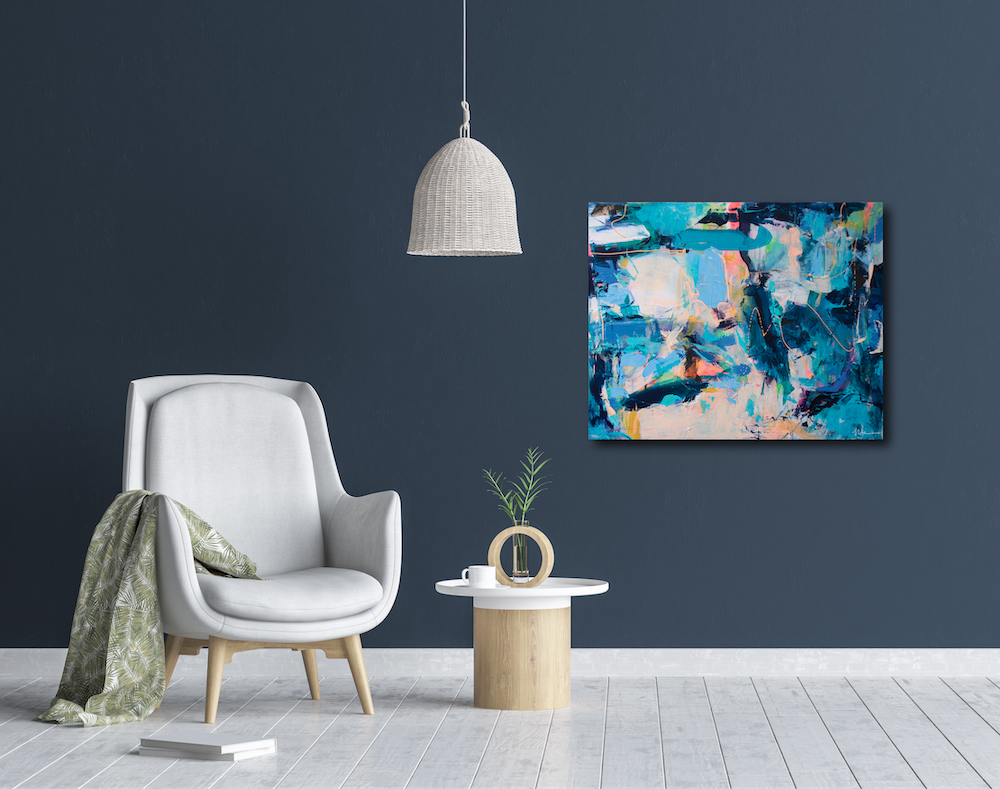
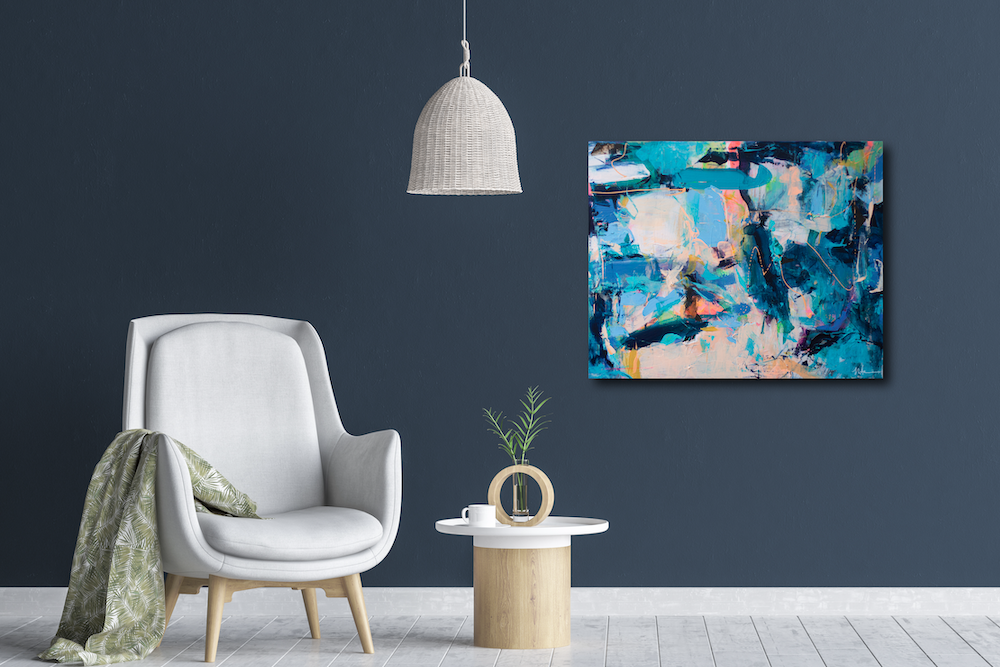
added wintry creations

diff --git a/_site/painting-collections/2022-1-jan-paintings/index.html b/_site/painting-collections/2022-1-jan-paintings/index.html
@@ -20,19 +20,19 @@
 
 	<!-- Page Info -->
 	<link rel="shortcut icon" href="/website/images/favicon.png">
-	<title>The Fresh Start Collection – Montana Fowler Art</title>
+	<title>Wintry Creations – Montana Fowler Art</title>
 	<meta name="description" content="">
 
 	<!-- Twitter Card -->
 	<meta name="twitter:card" content="summary_large_image">
-	<meta name="twitter:title" content="The Fresh Start Collection – Montana Fowler Art">
+	<meta name="twitter:title" content="Wintry Creations – Montana Fowler Art">
 	<meta name="twitter:description" content="">
-	<meta name="twitter:image:src" content="http://localhost:4000/website/images/2021/december-shop/loud/loud-1.jpg">
+	<meta name="twitter:image:src" content="http://localhost:4000/website/images/2022/January/minty/minty-1.jpg">
 
 	<!-- Facebook OpenGraph -->
-	<meta property="og:title" content="The Fresh Start Collection – Montana Fowler Art" />
+	<meta property="og:title" content="Wintry Creations – Montana Fowler Art" />
 	<meta property="og:description" content="" />
-	<meta property="og:image" content="http://localhost:4000/website/images/2021/december-shop/loud/loud-1.jpg" />
+	<meta property="og:image" content="http://localhost:4000/website/images/2022/January/minty/minty-1.jpg" />
 
 	
 	<!-- Font Embed Code -->
@@ -103,6 +103,10 @@
 					</li>
 					
 					<li class="menu__list__item">
+						<a href="/website/shop" class="menu__list__item__link">shop</a>
+					</li>
+					
+					<li class="menu__list__item">
 						<a href="/website/about" class="menu__list__item__link">about</a>
 					</li>
 					
@@ -126,14 +130,14 @@
 	
 	<div class="page">
 
-		<div class="page__content" data-page-title="The Fresh Start Collection – Montana Fowler Art">
+		<div class="page__content" data-page-title="Wintry Creations – Montana Fowler Art">
 
 			<section class="intro">
 
     <div class="wrap">
 
-        <h1>The Fresh Start Collection</h1>
-        <p>December 2021</p>
+        <h1>Wintry Creations</h1>
+        <p>January 2022</p>
 
     </div>
 
@@ -141,59 +145,31 @@
 
 <section class="single">
 
-    <p>After moving to Montreal in September of 2021, Montana felt refreshed restarting her art practice in a new place.  She only brought her brushes and a few art tools with an intention to start with less.  Leaving behind all the unfinished paintings gave her a clear head to begin a new body of work.</p>
+    <p>Here lies a growing collection of wintry paintings…</p>
 
-<p>In Montana’s <a href="https://www.youtube.com/watch?v=BC4NtPyHsms">November 2021 studio notes video</a>, she explained how her art shows her what she’s going through at any given time.  Each piece in <i>The Fresh Start Collection</i> addresses an aspect of starting a new life in a new city: the peace, growth, energy &amp; knowledge.</p>
-
-<!-- Rosewater -->
+<!-- Minty -->
 <div class="container-1">
   <div class="box-image-left">
-    <img src="/website/images/2021/december-shop/rosewater/rosewater-0.jpg" />
+    <img src="/website/images/2022/January/minty/minty-1.jpg" />
   </div>
   <div class="box-description-right">
-    <h4>Rosewater (2021)</h4>
-    <p class="description-margin-zero">acrylic on canvas</p>
-    <p class="description-margin-zero">20 x 20"</p>
-    <p class="description-margin-zero">$200 USD  |  $253 CAD</p>
+    <h4>Minty (2022)</h4>
+    <p class="description-margin-zero">acrylic, pencil &amp; crayon on canvas</p>
+    <p class="description-margin-zero">24 x 30"</p>
+    <p class="description-margin-zero">$360 USD  |  $455 CAD</p>
   </div>
 </div>
 
-<!-- Spring Forward -->
+<!-- Perennial -->
 <div class="container-1">
   <div class="box-image-right">
-    <img src="/website/images/2021/december-shop/spring-forward/spring-forward-2.jpg" />
+    <img src="/website/images/2022/January/perennial/perennial-3.jpg" />
   </div>
   <div class="box-description-left">
-    <h4>Spring Forward (2021)</h4>
-    <p class="description-margin-zero">acrylic on canvas</p>
-    <p class="description-margin-zero">24 x 18"</p>
-    <p class="description-margin-zero">SOLD</p>
-  </div>
-</div>
-
-<!-- Loud -->
-<div class="container-1">
-  <div class="box-image-left">
-    <img src="/website/images/2021/december-shop/loud/loud-1.jpg" />
-  </div>
-  <div class="box-description-right">
-    <h4>Loud (2021)</h4>
-    <p class="description-margin-zero">acrylic on canvas</p>
-    <p class="description-margin-zero">24 x 18"</p>
-    <p class="description-margin-zero">$216 USD  |  $273 CAD</p>
-  </div>
-</div>
-
-<!-- Wiser -->
-<div class="container-1">
-  <div class="box-image-right">
-    <img src="/website/images/2021/december-shop/wiser/wiser-2.jpg" />
-  </div>
-  <div class="box-description-left">
-    <h4>Wiser (2021)</h4>
-  <p class="description-margin-zero">acrylic on canvas</p>
-  <p class="description-margin-zero">30 x 24"</p>
-  <p class="description-margin-zero">$360 USD  |  $455 CAD</p>
+    <h4>Perennial (2022)</h4>
+    <p class="description-margin-zero">acrylic, pencil &amp; crayon on canvas</p>
+    <p class="description-margin-zero">24 x 24"</p>
+    <p class="description-margin-zero">$288 USD  |  $364 CAD</p>
   </div>
 </div>
 
@@ -216,7 +192,7 @@
             </li>
         
         <li>
-            <a href="/website/painting-collections/2022-1-jan-paintings/" class="current"> The Fresh Start Collection</a>
+            <a href="/website/painting-collections/2022-1-jan-paintings/" class="current"> Wintry Creations</a>
             </li>
         
         <ul>

diff --git a/_site/shop.html b/_site/shop.html
@@ -103,6 +103,10 @@
 					</li>
 					
 					<li class="menu__list__item">
+						<a href="/website/shop" class="menu__list__item__link">shop</a>
+					</li>
+					
+					<li class="menu__list__item">
 						<a href="/website/about" class="menu__list__item__link">about</a>
 					</li>
 					
@@ -157,6 +161,40 @@
 <p>All of the pricing includes free shipping to the US and Canada.  If you'd like shipping outside the US and Canada, Montana can get a shipping quote for you before you make the purchase.</p>
 </div>
 
+<!-- Minty -->
+<div class="gallery" data-columns="1">
+	<img src="/website/images/2022/January/minty/minty-0.jpg" />
+	<img src="/website/images/2022/January/minty/minty-2.jpg" />
+	<img src="/website/images/2022/January/minty/minty-3.jpg" />
+	<img src="/website/images/2022/January/minty/minty-4.jpg" />
+	<img src="/website/images/2022/January/minty/minty-5.jpg" />
+	<img src="/website/images/2022/January/minty/minty-6.jpg" />
+	<img src="/website/images/2022/January/minty/minty-7.jpg" />
+</div>
+<div style="padding-bottom: 100px">
+	<h4>Minty (2022)</h4>
+	<p class="description-margin-zero">acrylic, pencil &amp; crayon on canvas</p>
+	<p class="description-margin-zero">24 x 30"</p>
+	<p class="description-margin-zero">$360 USD  |  $455 CAD</p>
+</div>
+
+<!-- Perennial -->
+<div class="gallery" data-columns="1">
+	<img src="/website/images/2022/January/perennial/perennial-0.jpg" />
+	<img src="/website/images/2022/January/perennial/perennial-1.jpg" />
+	<img src="/website/images/2022/January/perennial/perennial-2.jpg" />
+	<img src="/website/images/2022/January/perennial/perennial-4.jpg" />
+	<img src="/website/images/2022/January/perennial/perennial-5.jpg" />
+	<img src="/website/images/2022/January/perennial/perennial-6.jpg" />
+	<img src="/website/images/2022/January/perennial/perennial-7.jpg" />
+</div>
+<div style="padding-bottom: 100px">
+	<h4>Perennial (2022)</h4>
+	<p class="description-margin-zero">acrylic, pencil &amp; crayon on canvas</p>
+	<p class="description-margin-zero">24 x 24"</p>
+	<p class="description-margin-zero">$288 USD  |  $364 CAD</p>
+</div>
+
 <!-- Rosewater -->
 <div class="gallery" data-columns="1">
 	<img src="/website/images/2021/december-shop/rosewater/rosewater-3.jpg" />
@@ -201,6 +239,8 @@
 <!-- Gallery -->
 <h3> Available Work </h3>
 <div class="gallery" data-columns="3">
+	<img src="/website/images/2022/January/perennial/perennial-3.jpg" />
+	<img src="/website/images/2022/January/minty/minty-1.jpg" />
 	<img src="/website/images/2021/december-shop/wiser/wiser-2.jpg" />
 	<img src="/website/images/2021/december-shop/rosewater/rosewater-0.jpg" />
 	<img src="/website/images/2021/december-shop/loud/loud-1.jpg" />

diff --git a/_site/index.html b/_site/index.html
@@ -103,6 +103,10 @@
 					</li>
 					
 					<li class="menu__list__item">
+						<a href="/website/shop" class="menu__list__item__link">shop</a>
+					</li>
+					
+					<li class="menu__list__item">
 						<a href="/website/about" class="menu__list__item__link">about</a>
 					</li>
 					
@@ -159,13 +163,13 @@
 			<a class="portfolio-item__link" href="/website/painting-collections/2022-1-jan-paintings/">
 
 				<div class="portfolio-item__image">
-					<img src="/website/images/2021/december-shop/loud/loud-1.jpg" alt="The Fresh Start Collection">
+					<img src="/website/images/2022/January/minty/minty-1.jpg" alt="Wintry Creations">
 				</div>
 
 				<div class="portfolio-item__content">
 					<div class="portfolio-item__info">
-						<h2 class="portfolio-item__title">The Fresh Start Collection</h2>
-						<p class="portfolio-item__subtitle">December 2021</p>
+						<h2 class="portfolio-item__title">Wintry Creations</h2>
+						<p class="portfolio-item__subtitle">January 2022</p>
 					</div>
 				</div>
 

diff --git a/_site/painting-collections-home.html b/_site/painting-collections-home.html
@@ -103,6 +103,10 @@
 					</li>
 					
 					<li class="menu__list__item">
+						<a href="/website/shop" class="menu__list__item__link">shop</a>
+					</li>
+					
+					<li class="menu__list__item">
 						<a href="/website/about" class="menu__list__item__link">about</a>
 					</li>
 					
@@ -157,7 +161,7 @@
             </li>
         
         <li>
-            <a href="/website/painting-collections/2022-1-jan-paintings/" class=""> The Fresh Start Collection (December 2021)</a>
+            <a href="/website/painting-collections/2022-1-jan-paintings/" class=""> Wintry Creations (January 2022)</a>
             </li>
         
         <ul>

diff --git a/_site/old-pages/2021-3-nov-in-progress.html b/_site/old-pages/2021-3-nov-in-progress.html
@@ -103,6 +103,10 @@
 					</li>
 					
 					<li class="menu__list__item">
+						<a href="/website/shop" class="menu__list__item__link">shop</a>
+					</li>
+					
+					<li class="menu__list__item">
 						<a href="/website/about" class="menu__list__item__link">about</a>
 					</li>
 					
@@ -260,7 +264,7 @@
             </li>
         
         <li>
-            <a href="/website/painting-collections/2022-1-jan-paintings/" class=""> The Fresh Start Collection</a>
+            <a href="/website/painting-collections/2022-1-jan-paintings/" class=""> Wintry Creations</a>
             </li>
         
         <ul>

diff --git a/_site/painting-collections/2021-1-tree-series/index.html b/_site/painting-collections/2021-1-tree-series/index.html
@@ -103,6 +103,10 @@
 					</li>
 					
 					<li class="menu__list__item">
+						<a href="/website/shop" class="menu__list__item__link">shop</a>
+					</li>
+					
+					<li class="menu__list__item">
 						<a href="/website/about" class="menu__list__item__link">about</a>
 					</li>
 					
@@ -282,7 +286,7 @@
             </li>
         
         <li>
-            <a href="/website/painting-collections/2022-1-jan-paintings/" class=""> The Fresh Start Collection</a>
+            <a href="/website/painting-collections/2022-1-jan-paintings/" class=""> Wintry Creations</a>
             </li>
         
         <ul>

diff --git a/_site/painting-collections/2021-2-everyday-series/index.html b/_site/painting-collections/2021-2-everyday-series/index.html
@@ -103,6 +103,10 @@
 					</li>
 					
 					<li class="menu__list__item">
+						<a href="/website/shop" class="menu__list__item__link">shop</a>
+					</li>
+					
+					<li class="menu__list__item">
 						<a href="/website/about" class="menu__list__item__link">about</a>
 					</li>
 					
@@ -257,7 +261,7 @@
             </li>
         
         <li>
-            <a href="/website/painting-collections/2022-1-jan-paintings/" class=""> The Fresh Start Collection</a>
+            <a href="/website/painting-collections/2022-1-jan-paintings/" class=""> Wintry Creations</a>
             </li>
         
         <ul>

diff --git a/_site/painting-collections/2021-4-dec-paintings/index.html b/_site/painting-collections/2021-4-dec-paintings/index.html
@@ -103,6 +103,10 @@
 					</li>
 					
 					<li class="menu__list__item">
+						<a href="/website/shop" class="menu__list__item__link">shop</a>
+					</li>
+					
+					<li class="menu__list__item">
 						<a href="/website/about" class="menu__list__item__link">about</a>
 					</li>
 					
@@ -216,7 +220,7 @@
             </li>
         
         <li>
-            <a href="/website/painting-collections/2022-1-jan-paintings/" class=""> The Fresh Start Collection</a>
+            <a href="/website/painting-collections/2022-1-jan-paintings/" class=""> Wintry Creations</a>
             </li>
         
         <ul>

diff --git a/_site/404.html b/_site/404.html
@@ -103,6 +103,10 @@
 					</li>
 					
 					<li class="menu__list__item">
+						<a href="/website/shop" class="menu__list__item__link">shop</a>
+					</li>
+					
+					<li class="menu__list__item">
 						<a href="/website/about" class="menu__list__item__link">about</a>
 					</li>
 					

diff --git a/_site/about.html b/_site/about.html
@@ -103,6 +103,10 @@
 					</li>
 					
 					<li class="menu__list__item">
+						<a href="/website/shop" class="menu__list__item__link">shop</a>
+					</li>
+					
+					<li class="menu__list__item">
 						<a href="/website/about" class="menu__list__item__link">about</a>
 					</li>
 					

diff --git a/_site/blog/demo-post.html b/_site/blog/demo-post.html
@@ -103,6 +103,10 @@
 					</li>
 					
 					<li class="menu__list__item">
+						<a href="/website/shop" class="menu__list__item__link">shop</a>
+					</li>
+					
+					<li class="menu__list__item">
 						<a href="/website/about" class="menu__list__item__link">about</a>
 					</li>
 					

diff --git a/_site/blog/index.html b/_site/blog/index.html
@@ -103,6 +103,10 @@
 					</li>
 					
 					<li class="menu__list__item">
+						<a href="/website/shop" class="menu__list__item__link">shop</a>
+					</li>
+					
+					<li class="menu__list__item">
 						<a href="/website/about" class="menu__list__item__link">about</a>
 					</li>
 					
